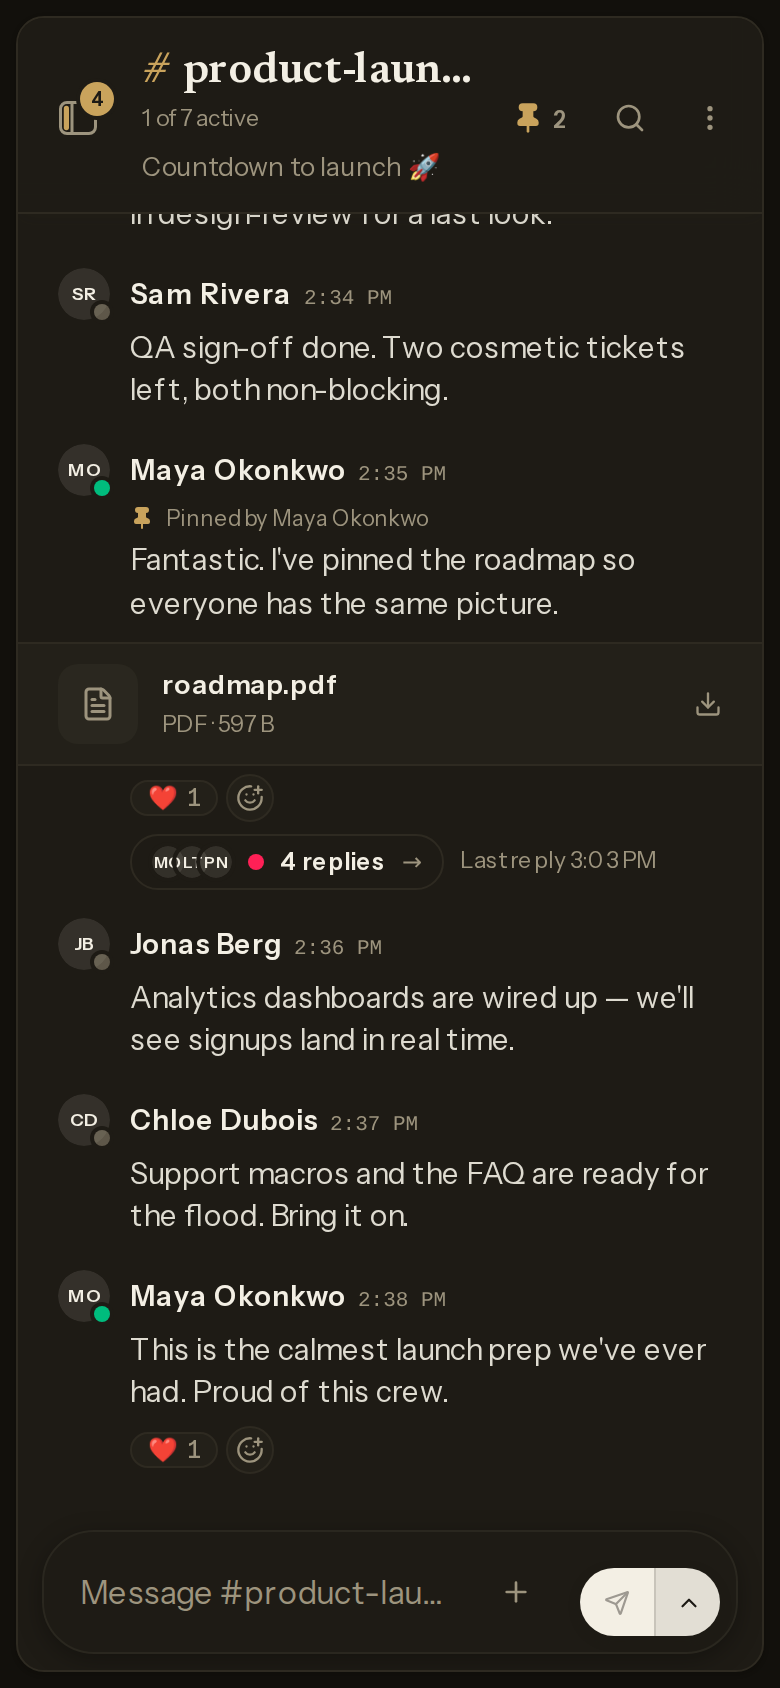
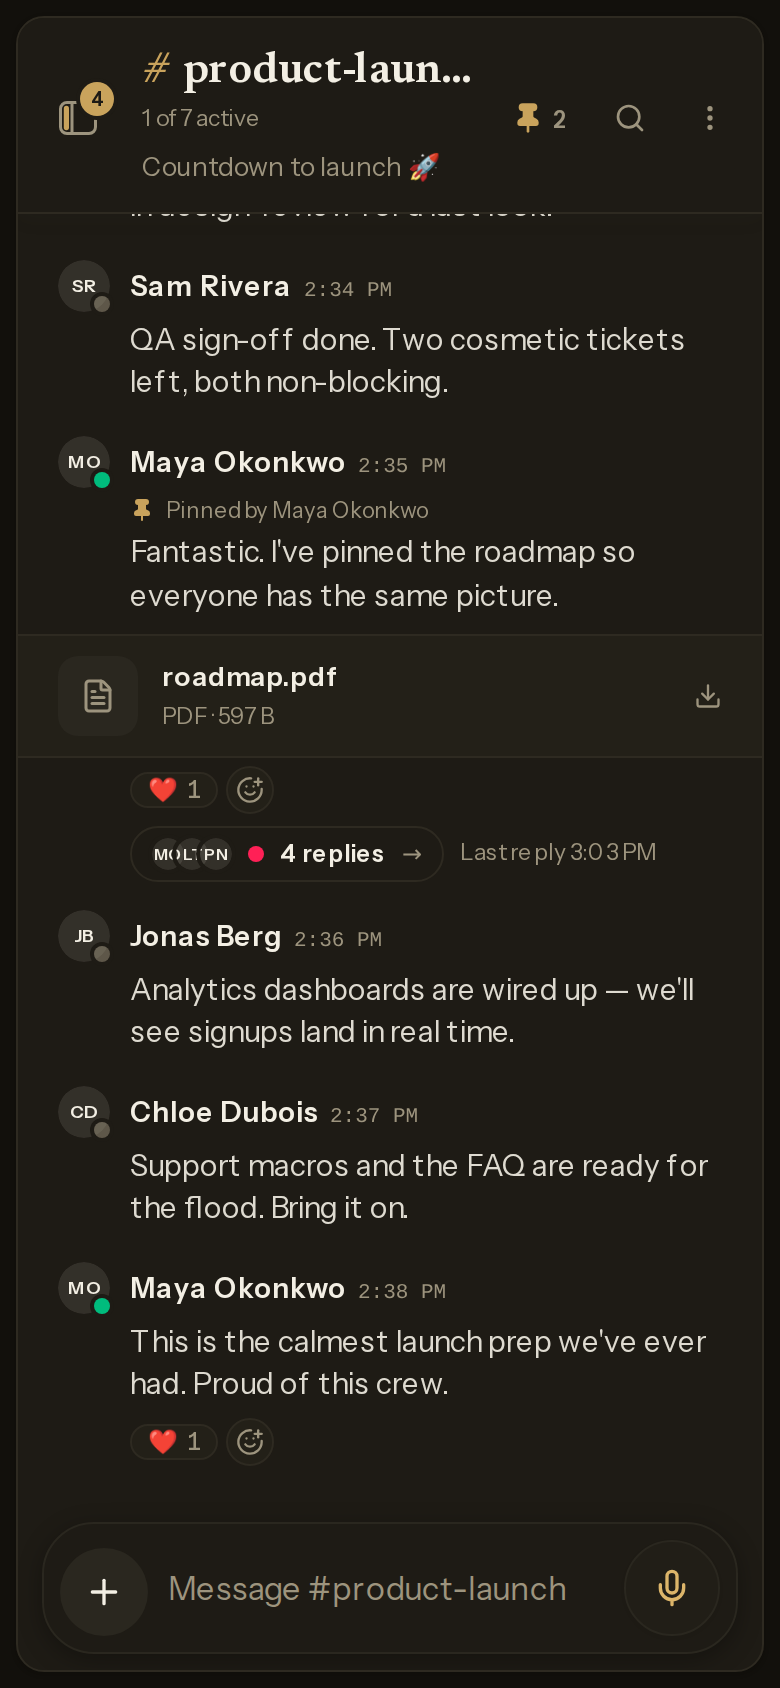
fix: unchain the composer geometry probe and refresh the mobile shell captures

diff --git a/tests/Browser/MobileComposerControlsTest.php b/tests/Browser/MobileComposerControlsTest.php
@@ -38,18 +38,22 @@ test('the primary disc holds its place across the first keystroke', function ():
 
     // The whole point of morphing one element rather than swapping two: the
     // field's right edge is where it was, so nothing under the thumb moves.
-    signInThroughBrowser($alice)
+    $page = signInThroughBrowser($alice)
         ->resize(390, 844)
-        ->navigate(browserChannelUrl($team, $channel))
-        ->script(<<<'JS'
-        window.__composerBefore = (() => {
-            const field = document.querySelector('[data-test="message-composer-input"]').getBoundingClientRect();
-            const disc = document.querySelector('[data-test="message-composer-record"]').getBoundingClientRect();
+        ->navigate(browserChannelUrl($team, $channel));
 
-            return { right: Math.round(field.right), x: Math.round(disc.x), width: Math.round(disc.width) };
-        })()
-        JS)
-        ->type('@message-composer-input', 'a')
+    // `script()` hands back the evaluated results rather than the page, so it
+    // breaks the chain and has to stand on its own.
+    $page->script(<<<'JS'
+    window.__composerBefore = (() => {
+        const field = document.querySelector('[data-test="message-composer-input"]').getBoundingClientRect();
+        const disc = document.querySelector('[data-test="message-composer-record"]').getBoundingClientRect();
+
+        return { right: Math.round(field.right), x: Math.round(disc.x), width: Math.round(disc.width) };
+    })()
+    JS);
+
+    $page->type('@message-composer-input', 'a')
         ->assertPresent('@message-composer-send')
         ->assertScript(<<<'JS'
         (() => {
